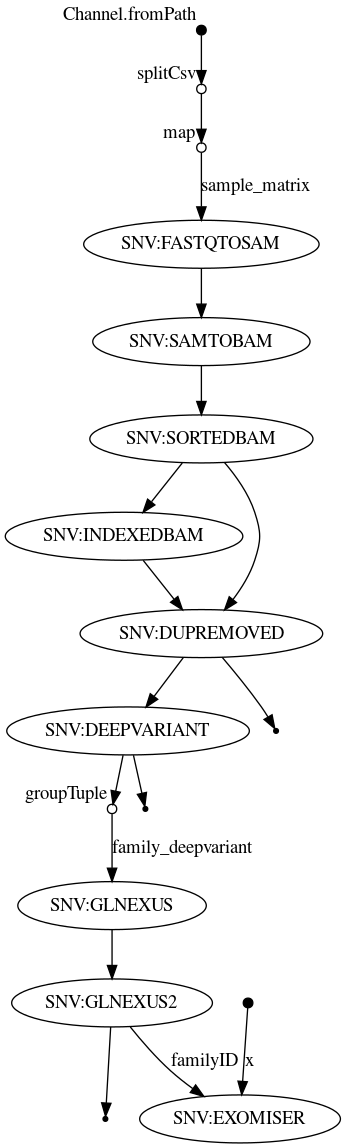
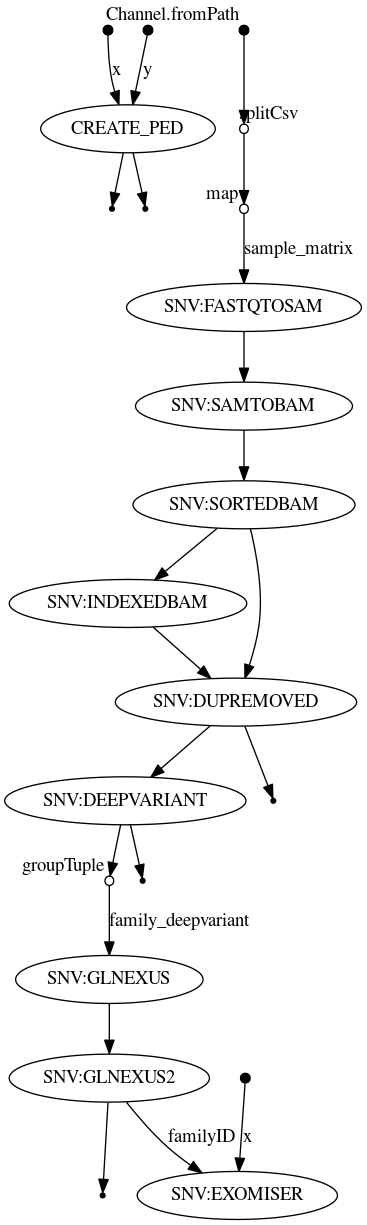
updated sockeye to work with slurm

diff --git a/README_new.md b/README_new.md
@@ -1,0 +1,57 @@
+# nextflow_pipeline
+
+This is a genetic analysis pipeline written in nextflow, to be eventually used in rare disease diagnosis. In its current state, the pipeline is capable of mapping and analayzing a family's (currently set to mother, father, and proband in testing, but compatible with other structures as well) raw genetic data.
+The process flow consists of the following:
+
+## SNV workflow
+### Individual processing
+* Reading data from spreadsheet
+  * Prior to any processes being called, each row of the provided sample sheet is read into a tuple (an example sample sheet has been provided)
+  * This avoids the need to reset params every time you want to process an individual with a different ID and file path.
+  * Additionally, the initial CREATE_PED module creates each family's .ped files using the spreadsheet
+* Mapping and converting
+  * map raw data to create the .sam files for each individual in the sample sheet
+  * convert the .sam files to binary (.bam), sort (.sorted.bam), and index (.sorted.bam.bai)
+  * run markduplicates and create (.dupremoved.bam) and (.dupremoved.bam.bai) files
+  * a naming convention of ${familyID}\_${sampleID} has been adopted in all steps processing individual data
+* Variant calling
+  * run deepvariant on each sample to create the vcf and gvcf files
+### Family processing
+* Variant calling (contd.)
+  * use groupTuple to group each family's members' gvcf data together
+  * run GLnexus on created tuple for joint variant calling (i.e. to create merged vcf)
+* Variant annotation
+  * run exomiser on the result from GLnexus & using a pre-written PED and config file in the config (soon to be changed to create the PED and config files in the process)
+
+## Running on Test Data
+Sample paired-end fastq files for father, mother, and proband are included in the example_data directory. You can use these to test your installation of the pipeline and tools. These files were created using various samtools command, using a script that can be found at misc/cut_region.sh.
+
+To run the pipeline using the test files, follow the following steps:
+* Open nextflow.config and edit all relevant paths to match the paths to tools and files on your environment. 
+  * This is generally going to be the only part you might need to edit when you run the pipeline on other data (but it will be mostly automated in the future versions!)
+* Open ExampleSampleSheet.tsv and edit the paths to match where the fastq files in the example_data directory are on your environment
+* Open main.sh, and edit paths sourcing conda and nextflow, as well as the email address. 
+  * If you are using a different scheduler than slurm, read the notes below to make the necessary changes before submitting the job. 
+  * This is also where you can edit what options you would like to run nextflow with, or if you would like to edit any params at commandline (this can be helpful after all permanent paths are set, and you only need to change a few params)
+* Submit the job to the scheduler! On slurm, this would be using ```sbatch main.sh```
+* After the job has finished running (probably should take < 10 minutes), you can see the outputs from each process in the results/test directory. 
+  * Additionally, you will see various reports produced by nextflow in your current directory. These can give you further insight on how much time and resources each process took, so that you can adjust them to the optimal level. The pipeline_flowchart.png is also a helpful resource in visualising the data flow in the pipeline.
+* Now, the first step is to make sure all the processes have completed successfully 
+  * On slurm, this is done by checking the .out file produced for the job which should get placed in the directory from which you submitted the job. An example is also included in the repo for reference.
+* Next, to make sure you have the correct results, look at the exomiser.html file in the results directory. 
+  * Since the test window provided is very small and around the variant of interest, you should see the gene ABCD1 listed as the top candidate, with the variant specifically at X-153736390-C-T. Other variants in genes ATP2B3 and PDZD4 will be listed, but these have very low scores and are only listed due to the very limited testing region.
+* If all above steps work, you're ready to use this on your own data! Make sure to read the notes below before you move on.
+*  If you ran into any problems, you can open an issue, and I'll do my best to help you debug. 
+## Sample Sheet Example
+| FamilyID | Family Member (Proband, Mother, Father, Sibling) | SampleID  | PaternalID | MaternalID | Sex (1=male, 2=female, 0=unknown) | Affected (1=unaffected, 2=affected) | FastqR1 (Path)   | FastqR2 (Path)   | HPO terms (0 for NA) |
+|----------|--------------------------------------------------|-----------|------------|------------|-----------------------------------|-------------------------------------|------------------|------------------|----------------------------|
+| 6        | Proband                                          | 6_Proband | 6_Father   | 6_Mother   | 1                                 | 2                                   | path/to/r1.fastq | path/to/r2.fastq | ['HP:0123456', 'HP:6543210'] | 
+| 6        | Mother                                           | 6_Mother  | 0          | 0          | 2                                 | 1                                   | path/to/r1.fastq | path/to/r2.fastq | 0                          |
+| 6        | Father                                           | 6_Father  | 0          | 0          | 1                                 | 1                                   | path/to/r1.fastq | path/to/r2.fast1 | 0                          |
+## Notes
+* If you are using a different job scheduler than slurm, you would need to create a separate profile for it in the profiles section. You can find more info on this in the nextflow documentation, or by looking at the config file in this repo.
+* To run the pipeline on full genome data, remove the --regions tag in the modules/deepvariant.nf script. This will be determined using a conditional in later versions, but editing is necessary for current version (0.0.2)
+* Various scripts in this repo are not included in the current release of the pipeline, as they are still under development and have not been tested. These scripts in addition to ones from older versions can currently be found in the misc folder.
+* Currently, nextflow doesn't seem to be able to update params when specified through both the params section and inside a profile. Originally, a params.yml file had been created for ease of switching to the test paths. However, this is no longer necessary when reading paths from a spreadsheet.
+## Future Plans
+In future versions, the pipeline is going to include an install.sh script (currently being developed) that will help you install all the tools necessary. Additionally, more variant calling and annotating tools will be included.
